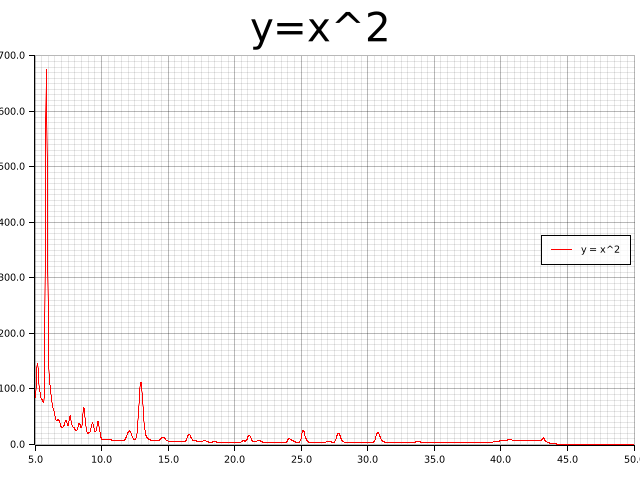
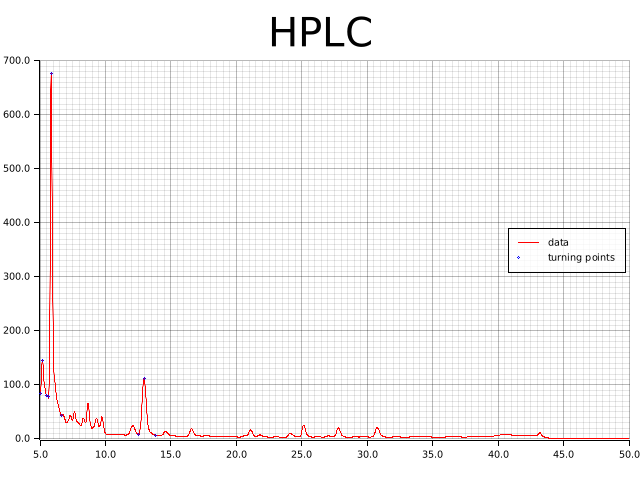
feat: add turning points

Changed region(s): [[0.0, 0.0, 1.0, 0.9688]]

diff --git a/src/main.rs b/src/main.rs
@@ -2,25 +2,41 @@ use std::error::Error;
 
 use plotters::prelude::*;
 
+mod peak;
+
 fn main() -> Result<(), Box<dyn Error>> {
     let root = BitMapBackend::new("quadratic.png", (640, 480)).into_drawing_area();
     root.fill(&WHITE)?;
     
     let mut chart = ChartBuilder::on(&root)
-        .caption("y=x^2", ("sans-serif", 50).into_font())
-        .margin(5)
+        .caption("HPLC", ("sans-serif", 50).into_font())
+        .margin(10)
         .x_label_area_size(30)
         .y_label_area_size(30)
-        .build_cartesian_2d(5f32..50f32, -1f32..700f32)?;
+        .build_cartesian_2d(5f32..50f32, -2f32..700f32)?;
 
     chart.configure_mesh().draw()?;
 
-    let sequence = parse_file();
-
+    let data = parse_file();
+    
+    let sequence = LineSeries::new(data.clone(), &RED);
     chart
         .draw_series(sequence)?
-        .label("y = x^2")
+        .label("data")
         .legend(|(x, y)| PathElement::new(vec![(x, y), (x + 20, y)], &RED));
+    
+    let peaks: Vec<(f32, f32)> = peak::Peak::find_peaks(data)
+        .iter().flat_map(|peak| {
+            [peak.start, peak.turning_point, peak.end]
+        }).collect();
+    
+    let peak_points: PointSeries<'_, (f32, f32), Vec<(f32, f32)>, Circle<(f32, f32), i32>, i32> = PointSeries::new(peaks, 1, &BLUE);
+    
+    chart
+        .draw_series(peak_points)?
+        .label("turning points")
+        .legend(|(x, y)| Circle::new((x, y), 1, &BLUE));
+
 
     chart
         .configure_series_labels()
@@ -33,20 +49,18 @@ fn main() -> Result<(), Box<dyn Error>> {
     Ok(())
 }
 
-fn parse_file<'a>() -> LineSeries<BitMapBackend<'a>, (f32, f32)> {
-    let file = std::fs::read_to_string("./src/CSF1.arw").unwrap();
+fn parse_file<'a>() -> Vec<(f32, f32)> {
+    let file = std::fs::read_to_string("./src/data.tsv").unwrap();
 
     let sequence = file
         .split("\n")
         .filter(|line| !line.is_empty())
-        .map(parse_line)
-        .filter_map(|x| x)
+        .filter_map(parse_line)
         .filter(|coord| {
             5.0 < coord.0 && coord.0 < 50.0
         });
-        
 
-    LineSeries::new(sequence, &RED)
+    sequence.collect()
 }
 
 fn parse_line(line: &str) -> Option<(f32, f32)> {

diff --git a/src/peak.rs b/src/peak.rs
@@ -1,0 +1,57 @@
+#[derive(Default)]
+pub struct Peak {
+    pub start: (f32, f32),
+    pub turning_point: (f32, f32),
+    pub end: (f32, f32)
+}
+
+impl Peak {
+    pub fn find_peaks<T: IntoIterator<Item = (f32, f32)>>(iter: T) -> Vec<Self> {
+        let mut result = vec![];
+
+        let mut peak = Peak::default();
+        for point in iter {
+            if peak.start == (0.0, 0.0) {
+                peak.start = point;
+                continue;
+            }
+
+            if peak.turning_point.1 < point.1 {
+                peak.turning_point = point;
+                continue;
+            }
+
+            if peak.end == (0.0, 0.0) || peak.end.1 > point.1 {
+                peak.end = point;
+            } else {
+                if peak.turning_point.1 - peak.start.1 > 50.0 {
+                    result.push(peak);
+                } 
+                peak = Peak::default();
+            }
+        }
+
+        result
+    }
+
+    // area of trapezium = 1/2 * (a + b) * h
+    pub fn area(&self, start_basline: f32, end_baseline: f32) -> f32 {
+        let midpoint_baseline = (start_basline + end_baseline) / 2.0;
+
+        let left = {
+            let height = self.turning_point.0 - self.start.0;
+            let a = self.start.1 - start_basline;
+            let b = self.turning_point.1 - midpoint_baseline;
+            0.5 * (a + b) * height
+        };
+
+        let right = {
+            let height = self.end.0 - self.turning_point.0;
+            let a = self.turning_point.1 - midpoint_baseline;
+            let b = self.start.1 - end_baseline;
+            0.5 * (a + b) * height
+        };
+
+        left + right
+    }
+}
